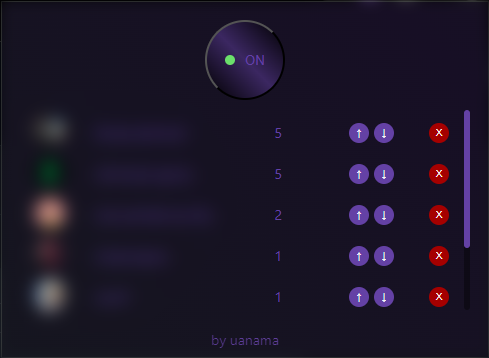
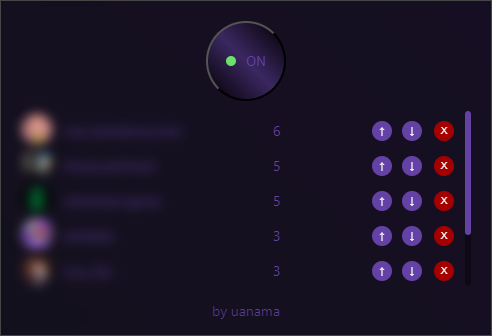
restyle css

diff --git a/style/style.css b/style/style.css
@@ -1,16 +1,32 @@
 body {
-  background: linear-gradient(45deg, #112511, #170f25, #112511);
-  background-size: 600% 600%;
-  animation: gradientAnimation 10s ease infinite;
+  background: linear-gradient(45deg, #091309, #170f25, #091309);
+  background-size: 1000% 1000%;
+  animation: gradientAnimation 20s ease infinite;
+  backdrop-filter: blur(10px);
   width: 450px;
-  padding: 10px;
+  padding: 20px;
+  margin: 0px;
   padding-bottom: 0px;
 }
 
+@keyframes gradientAnimation {
+  0% {
+    background-position: 0% 0%;
+  }
+  50% {
+    background-position: 100% 100%;
+  }
+  100% {
+    background-position: 0% 0%;
+  }
+}
+
 .header {
+  z-index: 2;
   display: flex;
   justify-content: center;
   align-items: center;
+  /* padding-top: 10px; */
   padding-bottom: 10px;
 }
 
@@ -38,25 +54,16 @@ body {
   margin-right: 10px;
 }
 
-@keyframes gradientAnimation {
-  0% {
-    background-position: 0% 0%;
-  }
-  50% {
-    background-position: 100% 100%;
-  }
-  100% {
-    background-position: 0% 0%;
-  }
-}
+
 
 .text {
   color: white;
 }
 
 .containerTwitchAutoClicker {
+  /* z-index: 10; */
   background-color: transparent;
-  max-height: 200px;
+  max-height: 175px;
   overflow: auto;
 }
 
@@ -83,7 +90,6 @@ body {
   text-align: center;
   cursor: pointer;
   border-radius: 50%;
-  animation: gradientAnimation 10s ease infinite;
 }
 
 .user-table {
@@ -92,21 +98,21 @@ body {
 }
 
 .user-table th {
-  /* padding: 8px; */
   white-space: nowrap; /* Evita il riavvolgimento del testo */
 }
 
 .user-table td {
-  padding: 4px;
+  
+  /* padding: 4px;
   padding-left: 15px;
-  padding-right: 15px;
+  padding-right: 15px; */
   white-space: nowrap; /* Evita il riavvolgimento del testo */
 }
 
 .reorder-button, .remove-button {
   display: inline-block;
   vertical-align: middle;
-  margin-left: 5px;
+  margin-right: 10px;
   border: none;
   border-radius: 15px;
   width: 20px;
@@ -139,6 +145,7 @@ body {
   cursor: pointer;
   text-align: left;
   font-size: 14px;
+  padding-left: 10px;
 }
 
 .click-count {
@@ -151,7 +158,8 @@ body {
 #footer {
   width: 100%;
   text-align: center;
-  margin-top: 20px;
+  margin-top: 15px;
+  margin-bottom: 15px;
   font-size: 14px;
   background: linear-gradient(45deg, #6441a5CC, #6441a5);
   -webkit-background-clip: text;

diff --git a/README.md b/README.md
@@ -1,7 +1,7 @@
 <h1 align="center">TwitchAutoClaimer</h1>
 <h3 align="center">Google extension that automatically clicks the button to redeem channel points on every page opened. The extension also saves the number of clicks made on each channel.</h3>
 <div align="center">
-  <img alt="screenshot.png" width="500" src="https://github.com/LorenzoA98/TwitchAutoCLaimer/blob/main/screenshots/screenshot.png">
+  <img alt="screenshot.png" width="492" height="336" src="https://github.com/LorenzoA98/TwitchAutoCLaimer/blob/main/screenshots/screenshot.png">
 </div>
 
 <div style="text-align: center; margin-bottom: 20px;">
